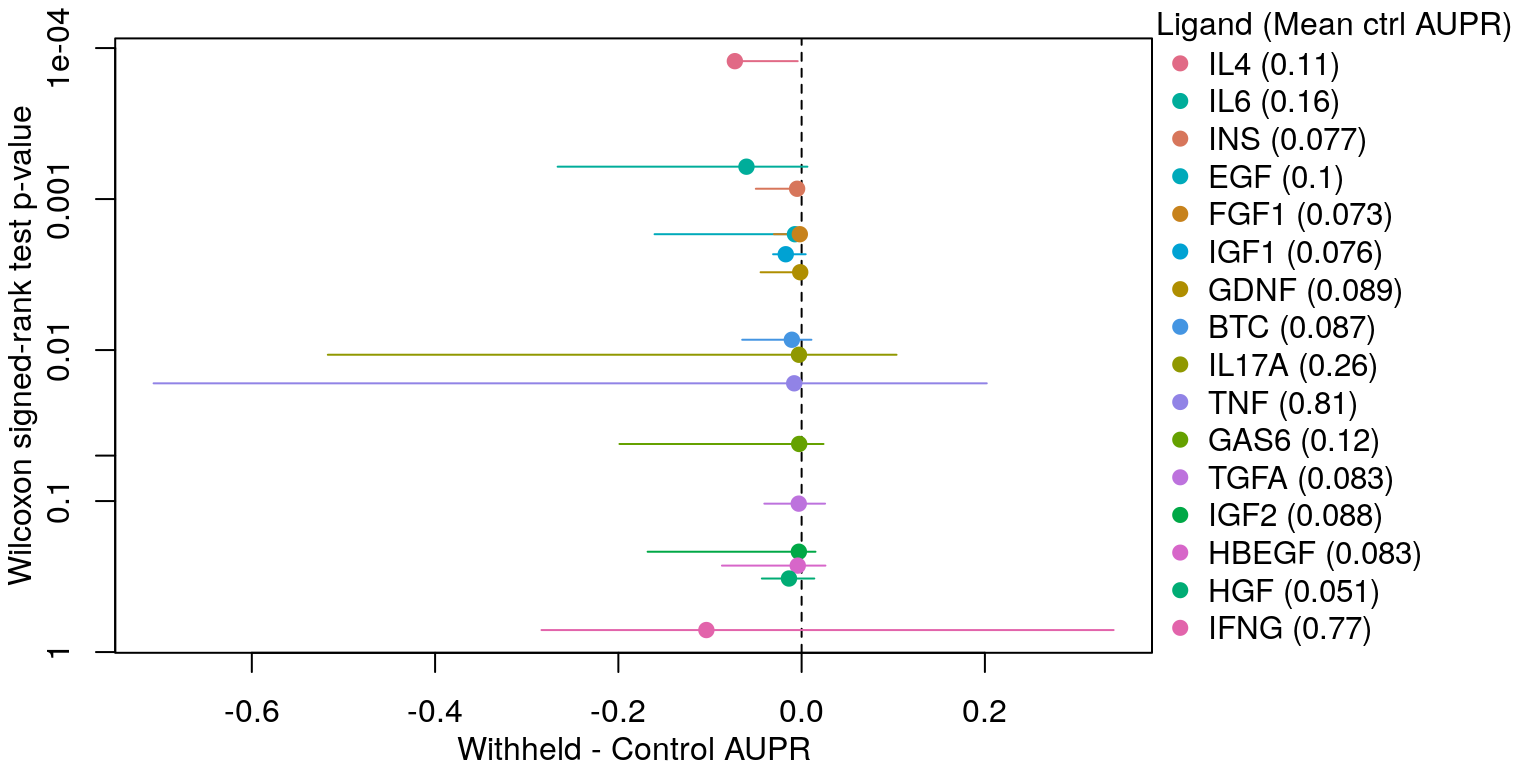
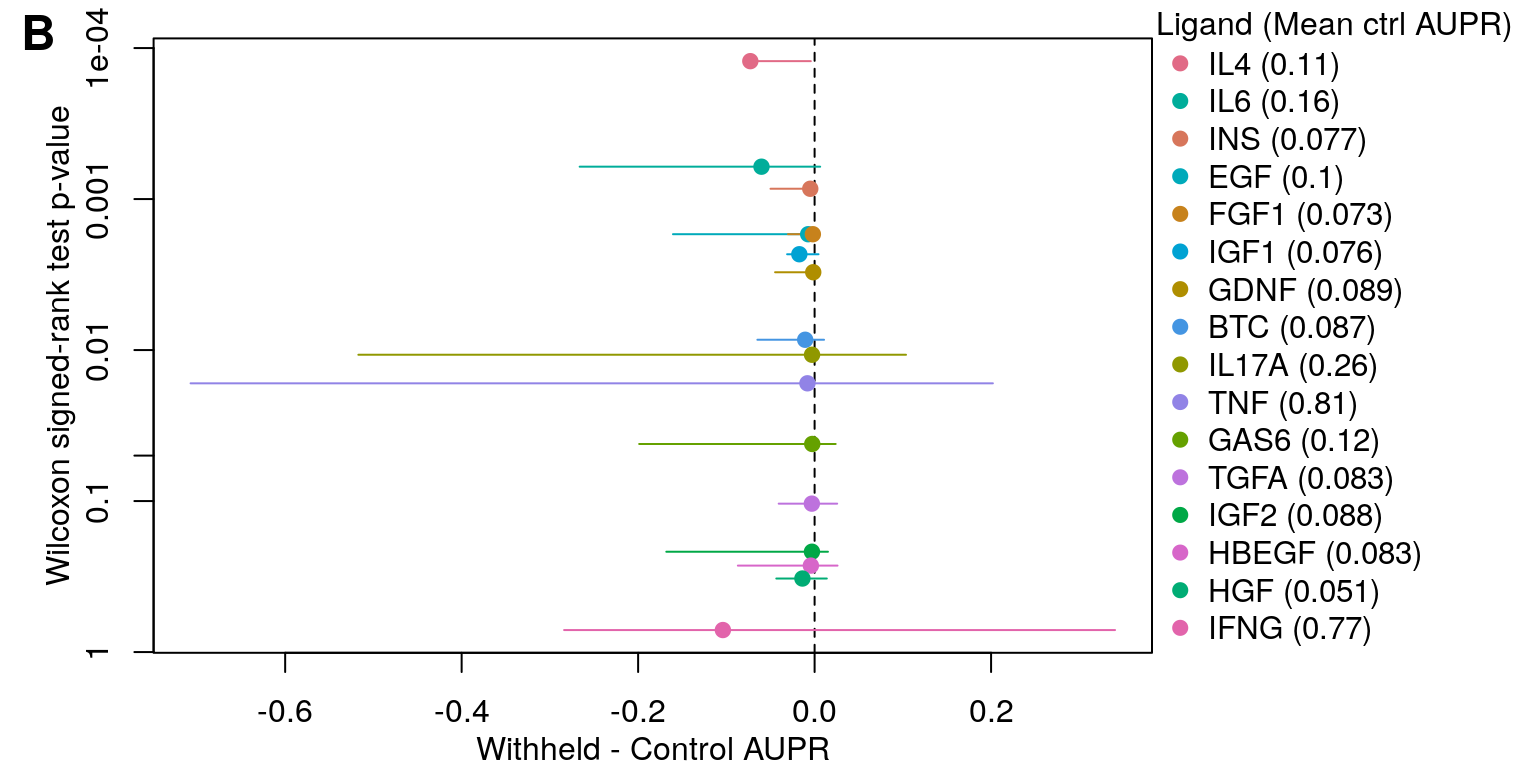
Fig 4 A/B labels added

diff --git a/docs/RFresults_forPaper.html b/docs/RFresults_forPaper.html
@@ -378,6 +378,10 @@ $(document).ready(function () {
 <pre><code>## [1] &quot;Mean AUPR of control: 0.19&quot;</code></pre>
 <pre><code>## [1] &quot;Mean AUPR of withheld: 0.16&quot;</code></pre>
 <pre><code>## [1] &quot;Median pairwise change in AUPR in withheld cell lines relative to control was -0.014 (p = 1.4e-18 by Wilcoxon signed-rank test).&quot;</code></pre>
+<div id="version-2" class="section level1">
+<h1>Version 2</h1>
+<p>Fig4b could be simply boxplots showing withheld - control AUPR sorted by mean AUPR (and columns of A sorted the same to improve pattern recognition), with *** indicating p-values?</p>
+</div>
 
 
 
